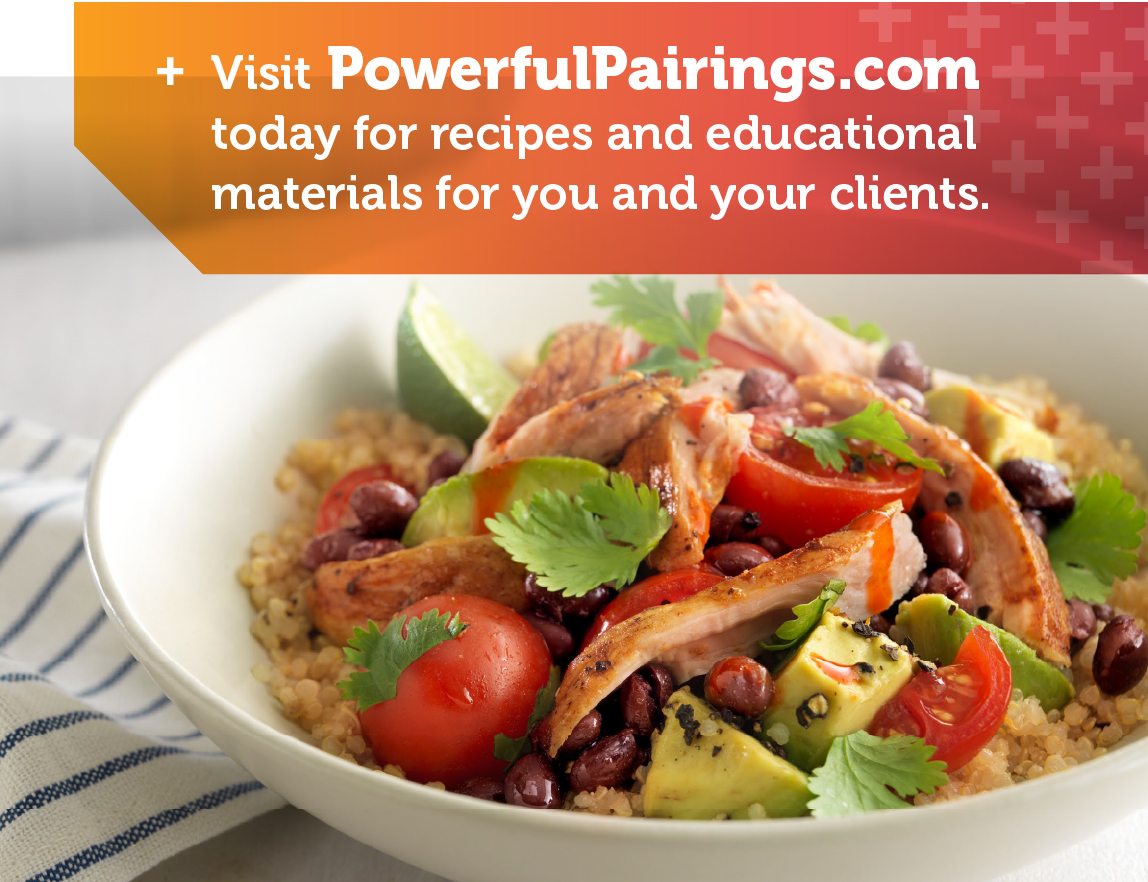
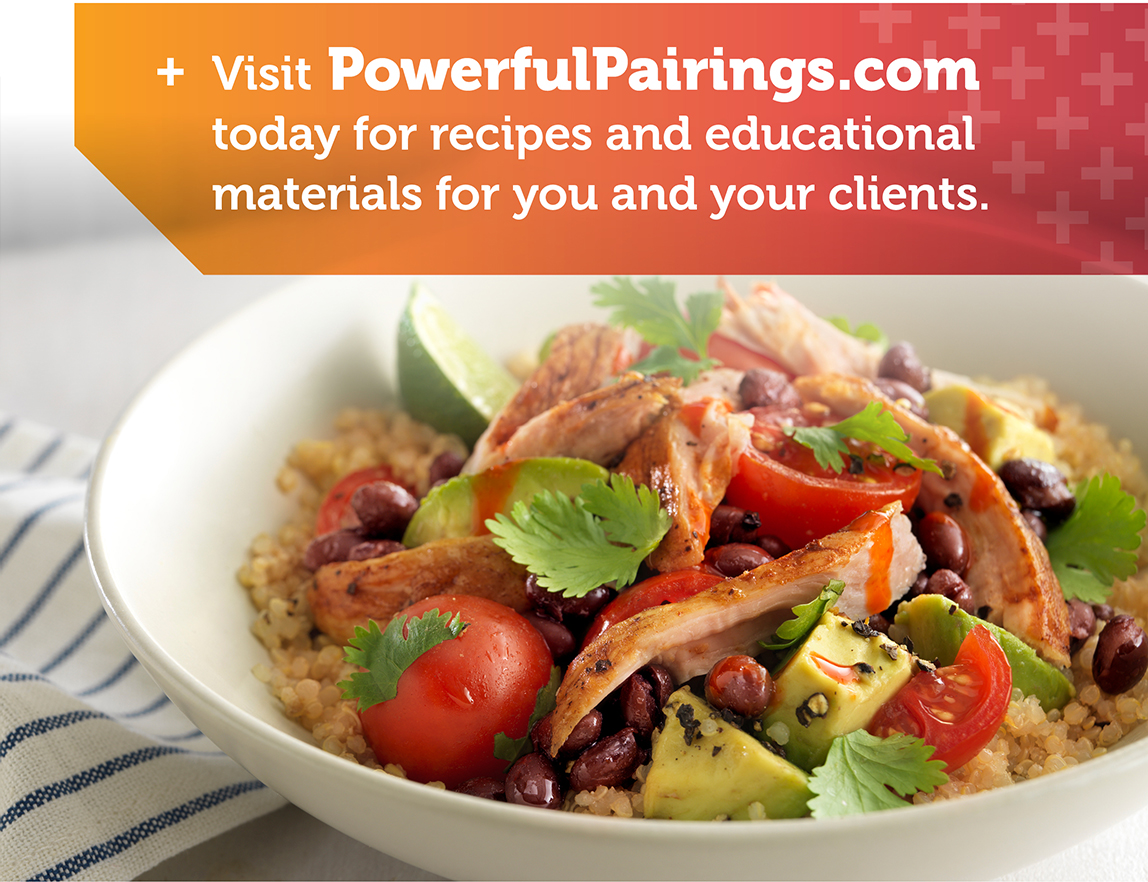
Fix Faded Image

diff --git a/TGN_083120/index.html b/TGN_083120/index.html
@@ -117,7 +117,7 @@
                     <tr>
                         <td colspan="2"
                             style="text-align: center; padding-left: 0px; padding-right: 0px; background-color: #f7e8c4;">
-                            <img class="responsive-image" alt="More Family meals = More fruits & Veggies"
+                            <img class="responsive-image" alt="An illustration of the benefits of Pork + Pulses"
                                 src="https://theamiro.github.io/EmailTemplates/TGN_083120/meal-illustration.png"
                                 width="100%">
                         </td>
@@ -246,7 +246,7 @@
                                     doi:10.1113/jphysiol.2006.110742</li>
                                 <li style="padding-bottom: 5px; padding-left: 15px; color: #4d4d4d; color: #4d4d4d;">
                                     Strasser, B., Volaklis,
-                                    K., Fuchs, D., & Burtscher, M.
+                                    K., Fuchs, D., &amp; Burtscher, M.
                                     (2018). Role of Dietary
                                     Protein and Muscular Fitness on Longevity
                                     and Aging. Aging and disease, 9(1), 119–132. https://doi.org/10.14336/AD.2017.0202
